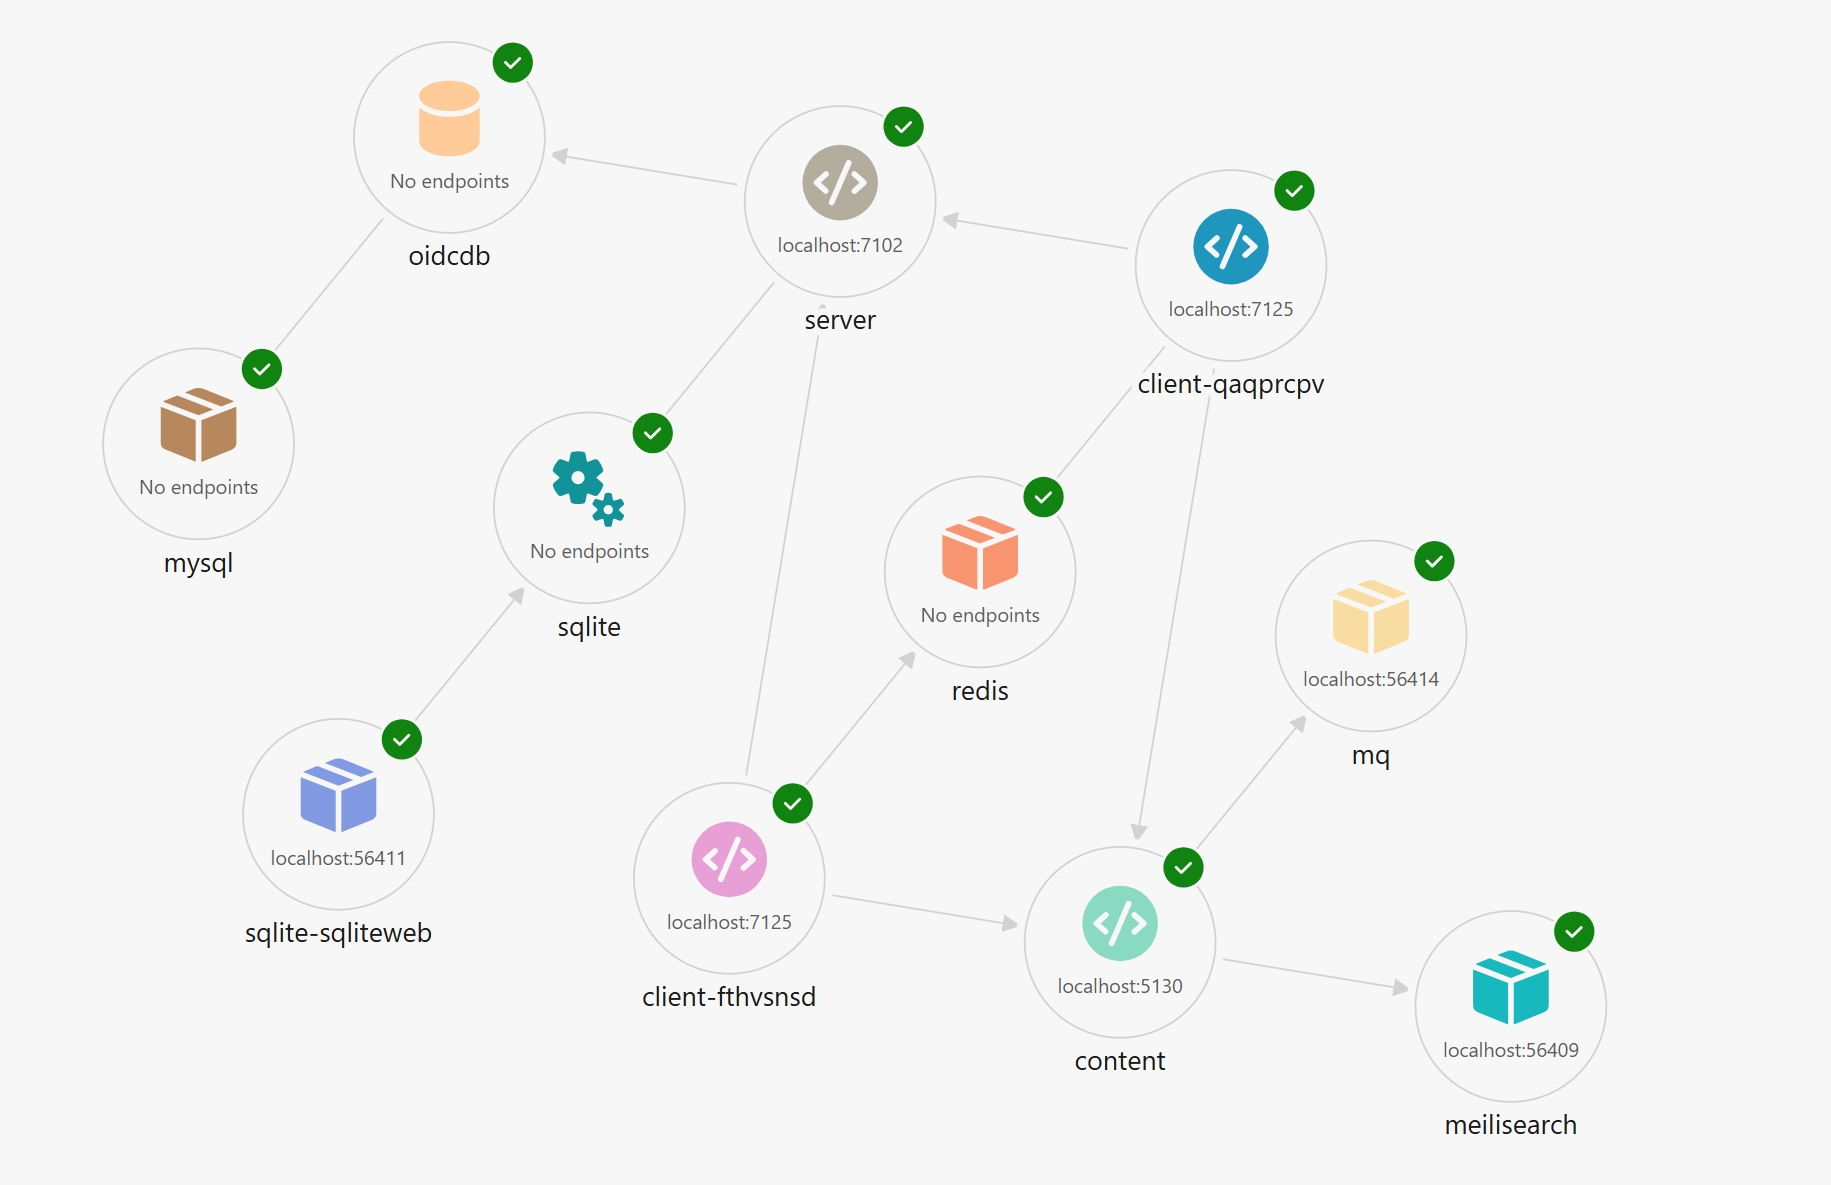
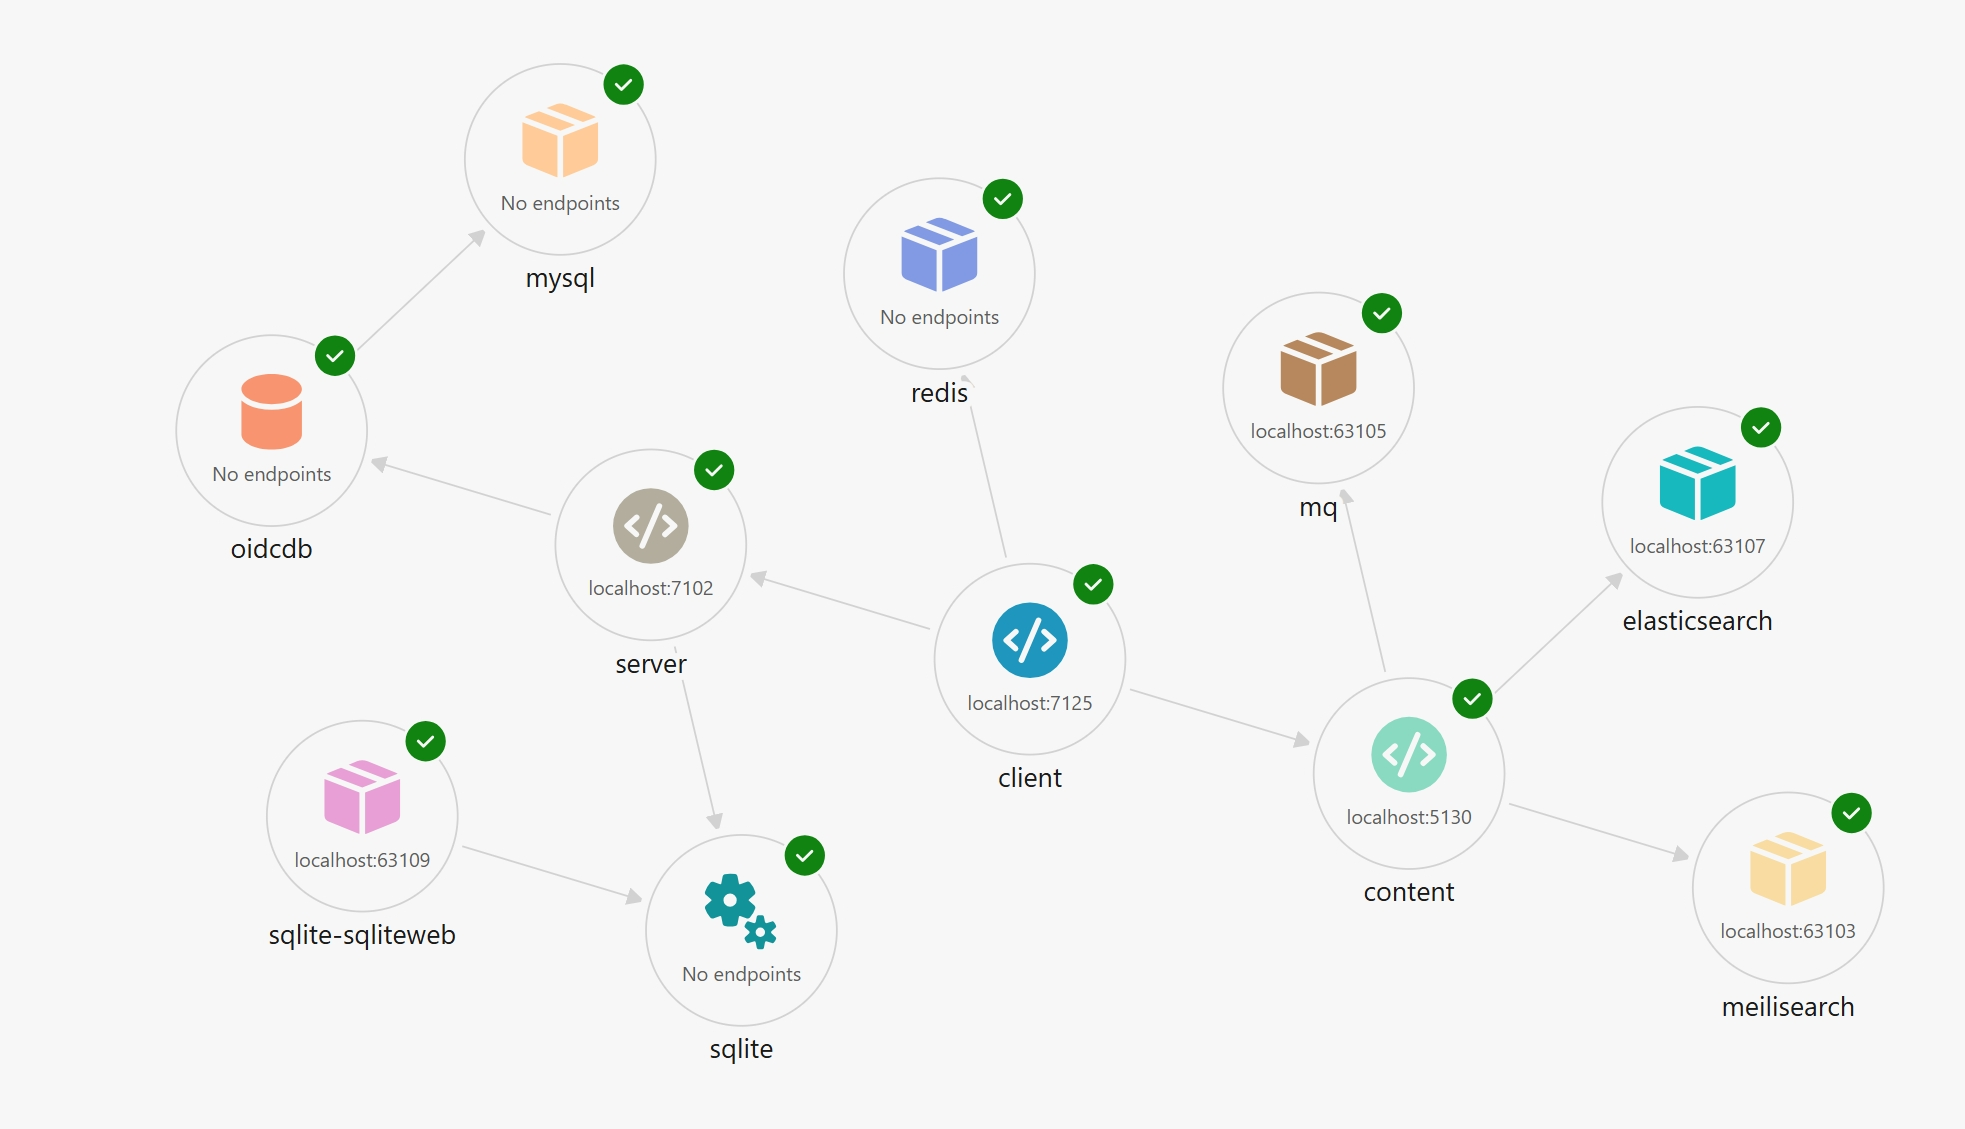
init

diff --git a/OidcWithMsIdentity.AppHost/Program.cs b/OidcWithMsIdentity.AppHost/Program.cs
@@ -16,12 +16,23 @@ var mysql = builder.AddMySql("mysql")
 var meilisearch = builder.AddMeilisearch("meilisearch")
     .WithDataVolume("meilisearch");//持久化索引
 
-// 添加elasticsearch搜索引擎
+// 添加elasticsearch搜索引擎,仅用于测试,因此内存限制256M
 var elasticsearch = builder.AddElasticsearch("elasticsearch")
     .WithDataVolume("es-data")//持久化索引
     .WithEnvironment("xpack.security.enabled", "false")  // 关闭安全功能Kibana链接需要
-    .WithEnvironment("ES_JAVA_OPTS", "-Xms512m -Xmx512m")//设置JVM内存限制
-    ;
+    .WithEnvironment("ES_JAVA_OPTS", "-Xms256m -Xmx256m")//设置JVM内存限制
+                                                         //以下环境变量允许dejavu可视化elasticsearch索引
+    .WithEnvironment("http.cors.allow-origin", "http://localhost:1358") //允许跨域请求
+    .WithEnvironment("http.cors.enabled", "true") //启用CORS
+    .WithEnvironment("http.cors.allow-headers", "X-Requested-With,X-Auth-Token,Content-Type,Content-Length,Authorization") //允许的请求头
+    .WithEnvironment("http.cors.allow-credentials", "true"); //允许凭据
+;
+
+// 添加appbaseio/dejavu用于可视化elasticsearch索引
+// 链接查看content的环境变量:ConnectionStrings__elasticsearch
+var dejavu = builder.AddContainer("dejavu", "appbaseio/dejavu", "latest")
+    .WithReference(elasticsearch).WaitFor(elasticsearch) // Add a reference to the elasticsearch container
+    .WithEndpoint(1358, 1358, "http"); // Map the container port 1358 to the host port 1358
 
 // 添加kibana
 //var kibana = builder
@@ -58,7 +69,6 @@ var client = builder.AddProject<Projects.OidcWithMsIdentity_Client>("client")
     .WithReference(server).WaitFor(server)
     //.WithReplicas(2)//2个副本
     .WithReference(contentSvc)//客户端检索内容服务
-    .WithEnvironment("CLIENT_ENV_VAR", "value")
     ;
 
 builder.Build().Run();

diff --git a/OidcWithMsIdentity.ServiceDefaults/ServiceUriProvider.cs b/OidcWithMsIdentity.ServiceDefaults/ServiceUriProvider.cs
@@ -2,15 +2,26 @@
 // The OidcWithMsIdentity.Client licenses this file to you under the MIT license.
 // See the LICENSE file in the project root for more information.
 
-namespace OidcWithMsIdentity.Client;
+using Microsoft.Extensions.Configuration;
+using Microsoft.Extensions.Logging;
 
-// 实现服务URI提供器
+namespace OidcWithMsIdentity.ServiceDefaults;
+
+/// <summary>
+/// 服务URI提供器
+/// </summary>
 public interface IServiceUriProvider
 {
+    /// <summary>
+    /// 获取服务URI
+    /// </summary>
+    /// <param name="service"></param>
+    /// <returns></returns>
     string GetServiceUri(string service);
 }
 
-public class ServiceUriProvider(ILogger<ServiceUriProvider> logger) : IServiceUriProvider
+public class ServiceUriProvider(ILogger<ServiceUriProvider> logger, IConfiguration configuration) :
+    IServiceUriProvider
 {
     public string GetServiceUri(string service)
     {
@@ -18,12 +29,12 @@ public class ServiceUriProvider(ILogger<ServiceUriProvider> logger) : IServiceUr
         //var envVars = Environment.GetEnvironmentVariables();
 
         // 首先尝试HTTP
-        string? serviceUrl = Environment.GetEnvironmentVariable($"services__{service}__http__0");
+        string? serviceUrl = configuration[$"services:{service}:http:0"];
 
         // 然后尝试HTTPS
         if (string.IsNullOrEmpty(serviceUrl))
         {
-            serviceUrl = Environment.GetEnvironmentVariable($"services__{service}__https__0");
+            serviceUrl = configuration[$"services:{service}:https:0"];
         }
 
         // 如果仍然没有找到，使用默认值

diff --git a/OidcWithMsIdentity.ContentService/Services/BlogElasticsearchService.cs b/OidcWithMsIdentity.ContentService/Services/BlogElasticsearchService.cs
@@ -357,7 +357,7 @@ public class BlogElasticsearchService : IBlogSearchService
             _logger.LogError("搜索失败: {ErrorReason}", searchResponse.DebugInformation);
             // 返回空的搜索结果
             return new SearchResult<Blog>(
-                new List<Blog>(),
+                [],
                 0,
                 new Dictionary<string, IReadOnlyDictionary<string, int>>(),
                 pageSize,
@@ -374,7 +374,7 @@ public class BlogElasticsearchService : IBlogSearchService
             foreach (var hit in searchResponse.Hits)
             {
                 // 查找对应的博客对象并处理高亮内容
-                if (hit.Highlight != null && hits.FirstOrDefault(b => b.Id == int.Parse(hit.Id)) is Blog blog)
+                if (hit.Highlight != null && hits.FirstOrDefault(b => b.Id == int.Parse(hit.Id!)) is Blog blog)
                 {
                     // 处理标题高亮
                     if (hit.Highlight.TryGetValue(nameof(Blog.Title).ToLower(), out var titleHighlights) && titleHighlights.Any())

diff --git a/OidcWithMsIdentity.ServiceDefaults/Extensions.cs b/OidcWithMsIdentity.ServiceDefaults/Extensions.cs
@@ -1,9 +1,11 @@
-using Microsoft.AspNetCore.Builder;
+using Microsoft.AspNetCore.Builder;
 using Microsoft.AspNetCore.Diagnostics.HealthChecks;
+using Microsoft.Extensions.Configuration;
 using Microsoft.Extensions.DependencyInjection;
 using Microsoft.Extensions.Diagnostics.HealthChecks;
 using Microsoft.Extensions.Logging;
 using Microsoft.Extensions.ServiceDiscovery;
+using OidcWithMsIdentity.ServiceDefaults;
 using OpenTelemetry;
 using OpenTelemetry.Metrics;
 using OpenTelemetry.Trace;
@@ -17,6 +19,12 @@ namespace Microsoft.Extensions.Hosting
     {
         public static TBuilder AddServiceDefaults<TBuilder>(this TBuilder builder) where TBuilder : IHostApplicationBuilder
         {
+            // 添加环境变量配置
+            builder.Configuration.AddEnvironmentVariables();
+
+            builder.Services.AddSingleton<IServiceUriProvider, ServiceUriProvider>();
+
+
             builder.ConfigureOpenTelemetry();
 
             builder.AddDefaultHealthChecks();

diff --git a/OidcWithMsIdentity.Client/Program.cs b/OidcWithMsIdentity.Client/Program.cs
@@ -4,7 +4,7 @@
 
 using Microsoft.AspNetCore.Authentication;
 using Microsoft.AspNetCore.Authentication.OpenIdConnect;
-using OidcWithMsIdentity.Client;
+using OidcWithMsIdentity.ServiceDefaults;
 using System.Security.Claims;
 using static OpenIddict.Abstractions.OpenIddictConstants;
 
@@ -22,8 +22,6 @@ builder.AddRedisDistributedCache("redis");
 builder.AddRedisClient("redis");
 // 添加Redis 输出缓存服务
 builder.AddRedisOutputCache("redis");
-
-builder.Services.AddSingleton<IServiceUriProvider, ServiceUriProvider>();
 
 // 添加YARP服务
 builder.Services.AddHttpForwarder();
